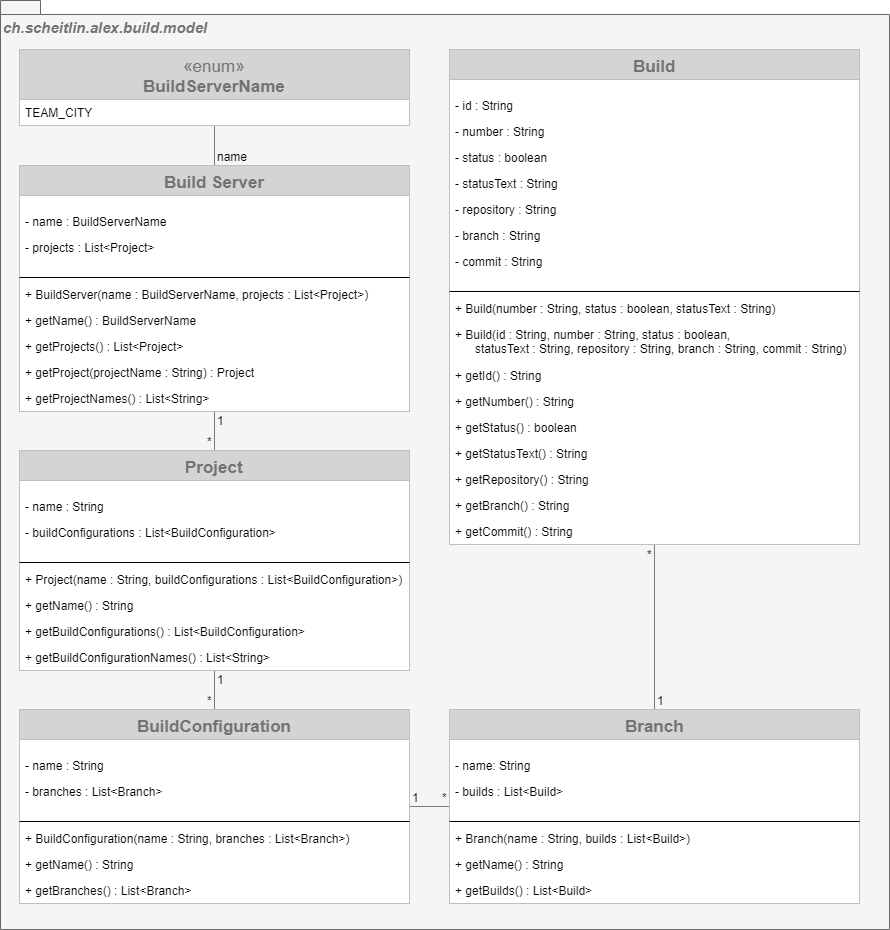
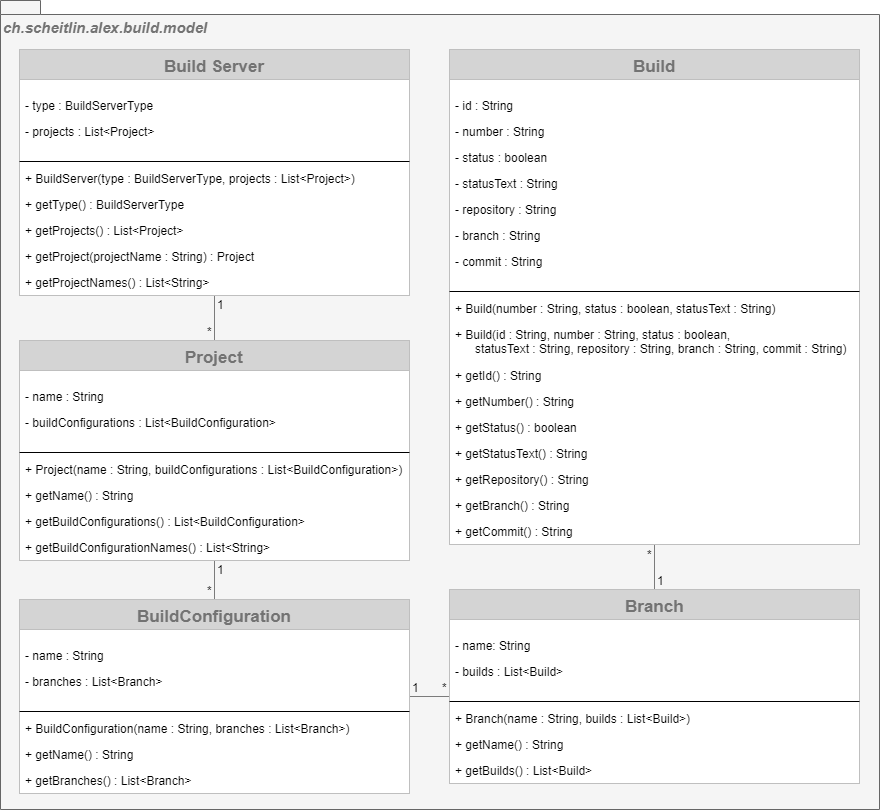
Rename BuildServerName to BuildServerType and move it from build-server-model to build-server-type module

diff --git a/build-server-model/src/main/java/ch/scheitlin/alex/build/model/BuildServer.java b/build-server-model/src/main/java/ch/scheitlin/alex/build/model/BuildServer.java
@@ -14,10 +14,9 @@ import java.util.List;
  */
 public class BuildServer {
     /**
-     * The name of the build server.
-     * May be seen as a type of a build server (eg. TeamCity, Travis CI, GitLab).
+     * The type of the build server.
      */
-    private BuildServerName name;
+    private BuildServerType type;
 
     /**
      * The projects configured on the build server.
@@ -27,21 +26,21 @@ public class BuildServer {
     /**
      * Creates a new instance of a build server.
      *
-     * @param name     the name of the build server
+     * @param type     the type of the build server
      * @param projects the projects configured on the build server
      */
-    public BuildServer(BuildServerName name, List<Project> projects) {
-        this.name = name;
+    public BuildServer(BuildServerType type, List<Project> projects) {
+        this.type = type;
         this.projects = projects;
     }
 
     /**
-     * Gets the name of the build server.
+     * Gets the type of the build server.
      *
-     * @return the name of the build server.
+     * @return the type of the build server.
      */
-    public BuildServerName getName() {
-        return this.name;
+    public BuildServerType getType() {
+        return this.type;
     }
 
     /**

diff --git a/build-server-model/src/test/java/ch/scheitlin/alex/build/model/BuildServerTest.java b/build-server-model/src/test/java/ch/scheitlin/alex/build/model/BuildServerTest.java
@@ -9,18 +9,18 @@ import java.util.List;
 public class BuildServerTest {
 
     @Test
-    public void getName() {
+    public void getType() {
         // assign variables with test data
-        BuildServerName expectedName = BuildServerName.TEAM_CITY;
+        BuildServerType expectedType = BuildServerType.TEAM_CITY;
 
         // allocate test objects
-        BuildServer buildServer = new BuildServer(expectedName, null);
+        BuildServer buildServer = new BuildServer(expectedType, null);
 
         // execute method to be tested
-        BuildServerName actualName = buildServer.getName();
+        BuildServerType actualType = buildServer.getType();
 
         // assert result
-        Assert.assertEquals(expectedName, actualName);
+        Assert.assertEquals(expectedType, actualType);
     }
 
     @Test

diff --git a/build-server-type/src/main/java/ch/scheitlin/alex/build/model/BuildServerType.java b/build-server-type/src/main/java/ch/scheitlin/alex/build/model/BuildServerType.java
@@ -1,0 +1,8 @@
+package ch.scheitlin.alex.build.model;
+
+/**
+ * Represents different types of build servers.
+ */
+public enum BuildServerType {
+    TEAM_CITY,
+}

diff --git a/build-server-model/README.md b/build-server-model/README.md
@@ -2,7 +2,7 @@
 
 > _Represents the data of a build server._
 
-A `BuildServer` has a `BuildServerName` (currently only TeamCity is supported) and multiple `Project`s.
+A `BuildServer` has a `BuildServerType` (currently only TeamCity is supported) and multiple `Project`s.
 Every `Project` has multiple `BuildConfiguration`s that execute `Build`s which may be grouped by the branch of the version control system.
 
 # UML Class Diagram

diff --git a/README.md b/README.md
@@ -19,6 +19,7 @@ Currently the BFRA supports projects developed with Git and Maven using TeamCity
 
 This project contains the following modules:
 
+- [Build Server Type](build-server-type)
 - [Build Server Model](build-server-model)
 - [Team City Build Model](teamcity-build-model)
 - [Maven Model](maven-model)

diff --git a/build-server-type/README.md b/build-server-type/README.md
@@ -1,0 +1,7 @@
+# Build Server Type
+
+> _Represents different types of build servers._
+
+# UML Class Diagram
+
+![Build Server Type](assets/build-server-type.png)
